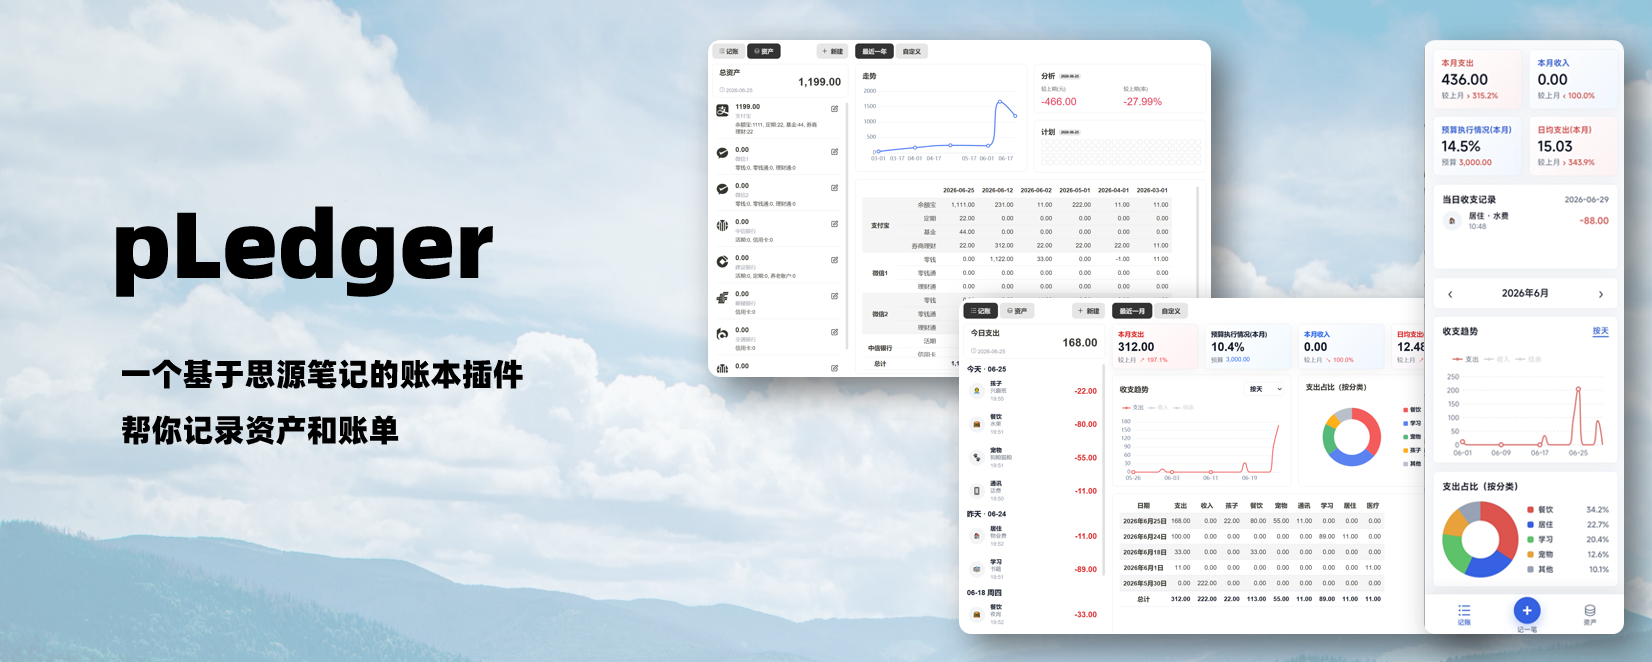
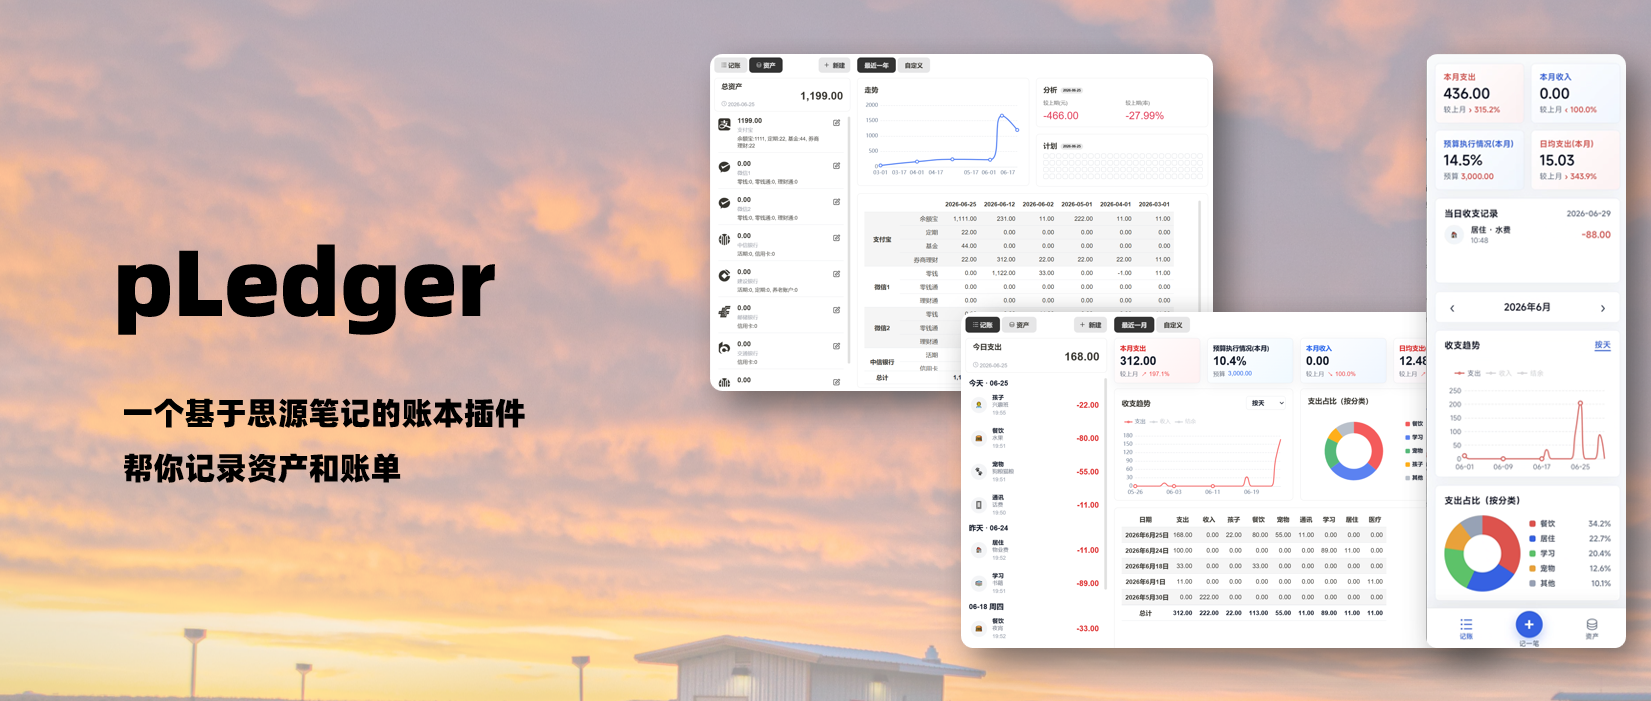
docs: 更新文档、预览图与配置提示语
1. 更新THANKS.md新增Codex与字体图片鸣谢
2. 优化Setting.vue中数据存放位置与图标配置提示文案
3. 重写README.md补充详细配置说明与注意事项
4. 更新项目预览图片

diff --git a/src/view/Setting.vue b/src/view/Setting.vue
@@ -17,7 +17,7 @@
         <div class="pl-setting-row">
           <label>
             数据存放位置
-            <p>集中存放请填写文档 ID；按日期存放请填写笔记本 ID</p>
+            <p>请复制文档id到此处, 请不要频繁调整该配置</p>
           </label>
           <input type="text" v-model="localSetting.documentId" placeholder="文档id" class="pl-form-input" />
         </div>
@@ -122,7 +122,7 @@
         <div class="pl-setting-row pl-setting-row-top">
           <label>
             已有图标
-            <p>这里只展示用户维护的图标；内置默认图标会自动注册</p>
+            <p>用户维护的图标</p>
           </label>
           <div class="pl-icon-list">
             <div v-if="!iconList.length" class="pl-icon-empty">暂无自定义图标</div>

diff --git a/README.md b/README.md
@@ -2,42 +2,71 @@
 
 ## 用前必读
 
-- **插件配置**
-    - **任何配置均不要频繁变更，变更前建议切换【数据存放位置】或备份原始数据，数据丢失是不可逆的**
-    - 【**数据存放位置**】必须为文档ID，不能是笔记本ID
-    - 【**配置**】中推荐配置的数据必须只能是两层，目前插件不支持多层级的复杂配置
+### 插件配置
 
-- **插件工作方式之资产部分**
-    - 插件会在你配置的【数据存放位置】文档下按年创建新的子文档，用于存储资产数据
-    - 你在文档中的修改会影响插件，如果你不知道你在做什么，请不要在文档中直接修改资产数据
+- 【**图标配置**】用于自定义图标，后续可以用 icon name 在资产/记账部分的配置中引用，图标名称必须是唯一的，格式必须为 siyun 可以解析的 svg 格式，例如：
+  ```xml
+  <symbol id="iconD3TestIcon" viewBox="0 0 1024 1024">
+  <path d="M648.53333333 921.6a34.13333333 34.13333333 0 0 1-32.08533333-23.21066667L375.46666667 176.128 271.01866667 488.78933333A34.13333333 34.13333333 0 0 1 238.93333333 512H34.13333333a34.13333333 34.13333333 0 0 1 0-68.26666667h180.224l129.024-386.38933333a35.49866667 35.49866667 0 0 1 64.85333334 0L648.53333333 779.60533333l104.448-312.66133333A34.13333333 34.13333333 0 0 1 785.06666667 443.73333333h204.8a34.13333333 34.13333333 0 0 1 0 68.26666667h-180.224l-129.024 386.38933333A34.13333333 34.13333333 0 0 1 648.53333333 921.6z"></path>
+  </symbol>
+  ```
+- 【**资产配置**】
+  - 【**数据存放位置**】必须为文档ID，不能是笔记本ID，插件会在你配置的【数据存放位置】文档下按年创建新的子文档，用于存储资产数据
+  - 【**目标金额**】为资产的目标金额，默认值为 100w
+  * 【**配置**】中推荐配置的数据必须只能是两层，目前插件不支持多层级的复杂配置，其中 icon 可以是自定义图标名称，也可以是 emoji 表情，例如 "💵"，例如：
+  ```json
+  [{
+    "name": "测试",
+    "icon": "iconD3TestIcon", // or "💵"
+    "children": [
+      { "name": "测试1" },
+      { "name": "测试2" }
+    ]
+  }]
+  ```
+- 【**记账配置**】
+  - 【**数据存放位置**】会根据【存放方式】不同而不同：
+    - 选择【集中存放】时必须填写文档ID，插件会在该文档下按 `yyyy-MM` 创建月份子文档，用于存储记账数据
+    - 选择【按日期存放】时必须填写笔记本ID，插件会读取该笔记本的【新建日记路径】配置，并按日期写入对应的日记文档
+  - 【**存放方式**】目前支持两种：
+    - 【集中存放】适合把记账数据统一放在一个文档目录下管理
+    - 【按日期存放】适合把记账数据跟随思源日记一起保存，如果当天日记不存在，插件会尝试按日记路径创建文档
+  - 【**每月预算**】用于记账统计中的预算计算，默认值为 3000
+  * 【**标签配置**】中推荐配置的数据必须只能是两层，目前插件不支持多层级的复杂配置
+    其中 icon 可以是自定义图标名称，也可以是 emoji 表情，例如 "🍔"，例如：
+  ```json
+  [{
+    "name": "餐饮",
+    "icon": "🍔",
+    "children": [
+      { "name": "早餐" },
+      { "name": "午餐" },
+      { "name": "晚餐" },
+      { "name": "零食" },
+      { "name": "其他" }
+    ]
+  }]
+  ```
 
-- **插件工作方式之记账部分**
-    - 不定时更新，敬请期待
+### 注意事项
 
+- **任何配置均不要频繁变更，变更前建议切换【数据存放位置】或备份原始数据，数据丢失是不可逆的**
+- **你在文档中的修改会影响插件，如果你不知道你在做什么，请不要在文档中直接修改资产数据，尤其是【记账】相关内容，插件目前是按照块属性进行检索的，仅改文档内容可能会产生脏数据**
 
 ## 特别鸣谢
 
-项目使用 `Vue`、`ECharts`、`cally`、`currency.js` 等框架或第三方库实现具体业务功能
+项目使用 `Vue`、`ECharts`、`cally`、`currency.js` 等框架或第三方库实现主要业务功能
 
 在开发与构建时使用了 `Vite`、`@vitejs/plugin-vue`、`TypeScript`、`vue-tsc`、`ts-node`、`@types/node`、`cross-env`、`autoprefixer`、`fast-glob`、`minimist`、`rollup-plugin-livereload`、`vite-plugin-static-copy`、`vite-plugin-zip-pack` 等构建工具或开发依赖
 
-特别感谢 `SiYuan` 项目及其社区、`plugin-sample-vite`、`siyuan-plugin-cli` 以及`TRAE` 对本项目的开发提供的重要支持
+特别感谢 `SiYuan` 项目及其社区、`plugin-sample-vite`、`siyuan-plugin-cli`  对本项目的开发提供的重要支持
+
+本项目使用了AI开发工具`TRAE`和`Codex`来生成代码和文档
 
 本项目的UI设计受到[Cent](https://github.com/glink25/Cent)项目的启发
 
+封面图使用了[Craig Rowtham](https://www.pexels.com/zh-cn/@craig-rowtham-2151756141/)的图片，图片链接为[https://www.pexels.com/zh-cn/photo/31837419](https://www.pexels.com/zh-cn/photo/31837419/)
+
+封面图使用了 [阿里巴巴普惠体 3.0 字体](https://www.alibabafonts.com/#/font)
+
 [查看全部鸣谢](https://github.com/double3-org/siyuan-pledger/blob/main/THANKS.md)
-
-## 待改进
-
-从产品的角度，我知道这个插件有很多待改进的地方：
-- 数据统计部分不够流畅，尤其是跨年的时候会有明显的割裂
-- 不支持历史数据的编辑，目前只能通过编辑文档来间接实现
-- 不支持多层级的复杂配置，自由度较低
-- 存在影响思源本体的样式的问题，例如可能会改变滚动条的样式
-- 对移动端的支持不足，操作起来不够丝滑
-- 不支持多语言，目前仅支持中文
-- 缺少足够的引导
-
-不过，考虑到该需求比较小众，当前版本已经基本满足我对该插件的想象，如果未来有其他朋友使用，我会考虑在后续版本中进行优化
-
-在可预见的未来，我将增加记账功能，敬请期待

diff --git a/THANKS.md b/THANKS.md
@@ -46,10 +46,20 @@
   一个能理解需求、调动工具、独立完成各类开发任务的超级 AI 开发工程师，助你高效推进项目每一步
    [去看看](https://www.trae.cn/) 
 
+- **Codex**
+  助力构建并交付产品的 AI 编程智能体 — 由 ChatGPT 提供技术支持
+  PS：本项目消耗仅9000万token
+   [去看看](https://openai.com/codex/)
+
 - **Cent**
   一个完全免费、开源的多人协作记账 Web App
    [去看看](https://github.com/glink25/Cent) 
 
+- **字体与图片**
+  封面图使用了[Craig Rowtham](https://www.pexels.com/zh-cn/@craig-rowtham-2151756141/)的图片
+  [去看看](https://www.pexels.com/zh-cn/photo/31837419/)
+  封面图使用了 [阿里巴巴普惠体 3.0 字体](https://www.alibabafonts.com/#/font)
+   [去看看](https://www.alibabafonts.com/#/font)
 
 ---
 
